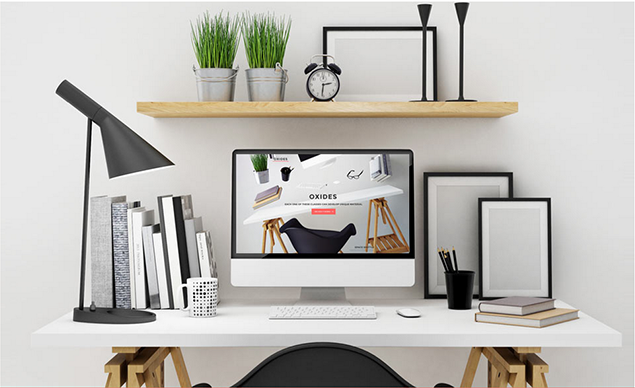
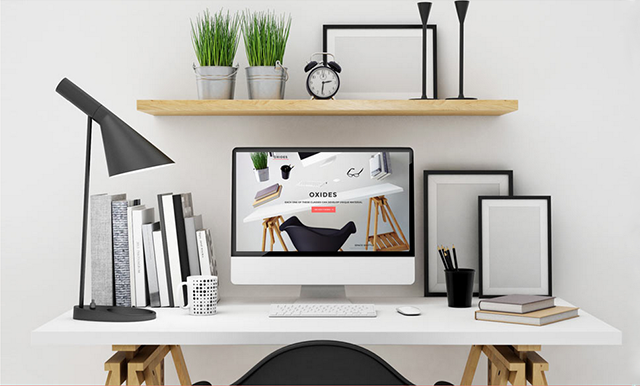
about section updated

diff --git a/index.html b/index.html
@@ -5,10 +5,9 @@
   <link rel="stylesheet" type="text/css" href="css/reset.css">
   <link rel="stylesheet" type="text/css" href="css/layout.css">
   <link rel="stylesheet" type="text/css" href="css/style.css">
-  <!-- <link href='https://fonts.googleapis.com/css?family=Roboto' rel='stylesheet' type='text/css'>
+ <!--  <link href='https://fonts.googleapis.com/css?family=Roboto' rel='stylesheet' type='text/css'>
   <link href='https://fonts.googleapis.com/css?family=Montserrat' rel='stylesheet' type='text/css'> -->
-  <link rel="stylesheet" type="text/css" href="fonts/Montserrat.otf">
-  <link rel="stylesheet" type="text/css" href="fonts/Roboto.ttf">
+ 
 </head>
 <body>
 <!--main wrapper -->
@@ -37,7 +36,7 @@
         <a href="#">  
           <div class="shopping-cart">
             <span class="cart-item-no">
-              0
+             0
             </span>
           </div>
         </a>  
@@ -100,11 +99,17 @@
         <div class="about-wrapper clrfix">
           <div class="about-left">
             <div class="about-content">
-             <h1>ABOUT</h1>
-             <span class="about-top">Tons of <strong>shortcodes</strong> provide countless options. Designed and <strong>built with care</strong>, filled with <strong>creative</strong> features.</span>
-             <p>Lorem ipsum dolor sit amet, consectetur adipiscing elit. Mauris vel faucibus diam, sed pellentesque sem. Donec placerat rhoncus elit, malesuada laoreet nibh cursus eu. Cras pellentesque congue interdum. Cras orci est, vestibulum in condimentum quis, rutrum sed nisi.</p>
-             <a href="#">BUY THEME</a>
-             <a href="#">BUY THEME</a>
+              <h1>ABOUT</h1>
+              <div class="about-top"><p>Tons of <strong>shortcodes</strong> provide countless options. Designed and <strong>built with care</strong>, filled with <strong>creative</strong> features.</p></div>
+              <div class="about-bottom">
+              <p>Lorem ipsum dolor sit amet, consectetur adipiscing elit. Mauris vel faucibus diam, sed pellentesque sem. Donec placerat rhoncus elit, malesuada laoreet nibh cursus eu. Cras pellentesque congue interdum. Cras orci est, vestibulum in condimentum quis, rutrum sed nisi.</p>
+              </div>
+              <span class="btn">
+               <a href="#">BUY THEME</a>
+              </span>
+              <span class="btn">
+               <a href="#">BUY THEME</a>
+              </span> 
             </div>
           </div>
           <div class="about-right">

diff --git a/css/style.css b/css/style.css
@@ -84,8 +84,9 @@ img{
 .feature-wrapper ul li{
   float: left;
   background: url('../images/feature-btm-border.png') center bottom no-repeat;
-  margin: 0 29px;
+  margin: 0 2.344381568310428%; /*29px*/
   text-align: center;
+  width: 11.96443007275667%;
 }
 
 .feature-wrapper ul li a{
@@ -94,7 +95,7 @@ img{
 
 .top-image{
   display: block;
-  width: 148px;
+  width: 100%; /*148px;*/
   height: 60px;
 }
 
@@ -130,29 +131,55 @@ img{
 }
 
 .about-content{
-  padding: 81px 69px;
+  padding: 79px 69px;
 }
 
 .about-content h1{
   font-size: 27px;
   font-weight: bold;
-  line-height: 22px;
-  margin-bottom: 21px;
   color: #333331;
+  background: red;
 }
 
 .about-top{
+  padding-top: 18px;
+}
+
+.about-top p{
   font-family: 'Roboto',sans-serif;
   font-size: 13px;
   line-height: 21px;
   color: #625757;
+  background: red;
 }
 
-.about-content p{
-  margin-top: 25px;
+.about-bottom{
+  padding: 22px 0 28px;
+}
+
+.about-bottom p{
   font-size: 10px;
   line-height: 18px;
   color: #7f7a7d;
+  background: red;
+}
+
+.btn{
+  display: inline-block;
+  background: #fe6261;
+  margin-right: 11px;
+  border: 1px solid #fe4d4c;
+  padding: 0px 16px;
+}
+
+.btn a{
+  display: block;
+  text-decoration: none;
+  font-size: 9px;
+  color: white;
+  line-height: 28px;
+  padding-right: 18px;
+  background: url('../images/btn-arrow-active.png') center right no-repeat;
 }
 
 .about-right{
@@ -161,6 +188,9 @@ img{
 }
 
 .about-right img{
+  display: block;
+  height: 100%;
   width: 100%;
-  height: 100%
 }
+
+
